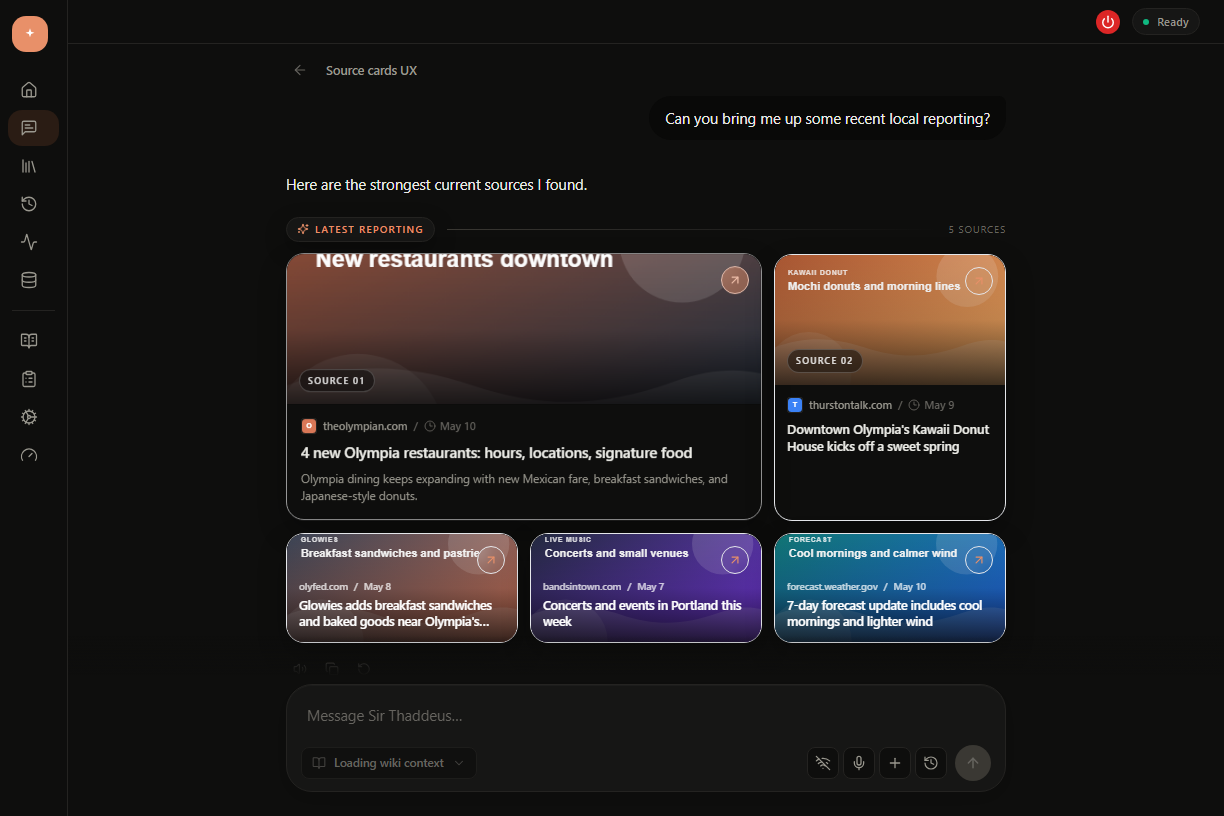
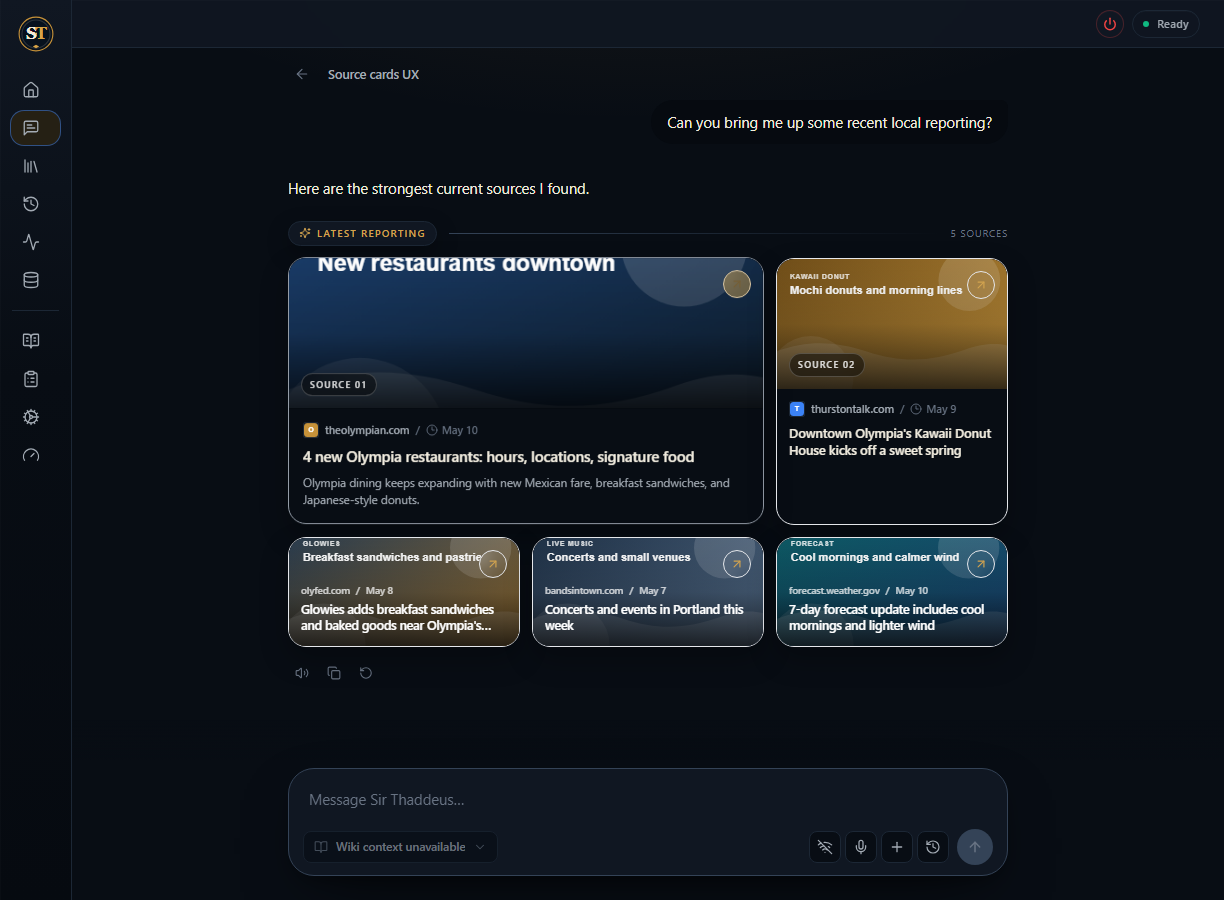
Refresh README visuals for the new brand system

diff --git a/web/tests/e2e/sourcecards.ux.spec.ts b/web/tests/e2e/sourcecards.ux.spec.ts
@@ -6,8 +6,8 @@ const richSources = [
     title: '4 new Olympia restaurants: hours, locations, signature food',
     domain: 'theolympian.com',
     excerpt: 'Olympia dining keeps expanding with new Mexican fare, breakfast sandwiches, and Japanese-style donuts.',
-    favicon: iconDataUrl('O', '#d97757'),
-    thumbnail: thumbDataUrl('OLYMPIA FOOD', 'New restaurants downtown', '#924c34', '#22384d'),
+    favicon: iconDataUrl('O', '#c79239'),
+    thumbnail: thumbDataUrl('OLYMPIA FOOD', 'New restaurants downtown', '#1b3f6e', '#102030'),
     publishedAt: '2026-05-10T08:00:00Z',
   },
   {
@@ -16,7 +16,7 @@ const richSources = [
     domain: 'thurstontalk.com',
     excerpt: 'A local donut shop is drawing attention for soft mochi donuts and weekend breakfast traffic.',
     favicon: iconDataUrl('T', '#3b82f6'),
-    thumbnail: thumbDataUrl('KAWAII DONUT', 'Mochi donuts and morning lines', '#a85532', '#f7b267'),
+    thumbnail: thumbDataUrl('KAWAII DONUT', 'Mochi donuts and morning lines', '#6f4d18', '#c9973e'),
     publishedAt: '2026-05-09T15:30:00Z',
   },
   {
@@ -25,7 +25,7 @@ const richSources = [
     domain: 'olyfed.com',
     excerpt: 'The bakery cafe is pairing breakfast sandwiches with pastries in a small downtown space.',
     favicon: iconDataUrl('G', '#10b981'),
-    thumbnail: thumbDataUrl('GLOWIES', 'Breakfast sandwiches and pastries', '#334155', '#d97757'),
+    thumbnail: thumbDataUrl('GLOWIES', 'Breakfast sandwiches and pastries', '#24394f', '#9a702f'),
     publishedAt: '2026-05-08T18:45:00Z',
   },
   {
@@ -33,8 +33,8 @@ const richSources = [
     title: 'Concerts and events in Portland this week',
     domain: 'bandsintown.com',
     excerpt: 'Venue calendars point to a busy week for small stages, touring acts, and last-minute ticket listings.',
-    favicon: iconDataUrl('B', '#8b5cf6'),
-    thumbnail: thumbDataUrl('LIVE MUSIC', 'Concerts and small venues', '#1f2937', '#7c3aed'),
+    favicon: iconDataUrl('B', '#58718d'),
+    thumbnail: thumbDataUrl('LIVE MUSIC', 'Concerts and small venues', '#1c2e43', '#58718d'),
     publishedAt: '2026-05-07T19:00:00Z',
   },
   {
@@ -43,7 +43,7 @@ const richSources = [
     domain: 'forecast.weather.gov',
     excerpt: 'The latest forecast emphasizes mild temperatures, patchy clouds, and a calmer weekend pattern.',
     favicon: iconDataUrl('W', '#06b6d4'),
-    thumbnail: thumbDataUrl('FORECAST', 'Cool mornings and calmer wind', '#0f766e', '#2563eb'),
+    thumbnail: thumbDataUrl('FORECAST', 'Cool mornings and calmer wind', '#0c5962', '#1b3f6e'),
     publishedAt: '2026-05-10T12:00:00Z',
   },
 ];
@@ -61,7 +61,7 @@ test.describe('source cards UX', () => {
     await forceDarkTheme(context);
     await installRoutes(page, baseUrl!);
 
-    const desktopScore = await inspectAtViewport(page, baseUrl!, 1224, 816, 'desktop');
+    const desktopScore = await inspectAtViewport(page, baseUrl!, 1224, 900, 'desktop');
     expect(desktopScore, JSON.stringify(desktopScore.checks)).toMatchObject({ total: 10 });
 
     const mobileScore = await inspectAtViewport(page, baseUrl!, 390, 780, 'mobile');
@@ -87,6 +87,17 @@ async function inspectAtViewport(
   await expect(cards).toHaveCount(richSources.length);
   await expect(page.getByTestId('source-card-thumbnail')).toHaveCount(richSources.length);
   await expect(page.getByTestId('chat-latest-response-actions')).toBeVisible();
+  const sourceImages = page.getByTestId('chat-source-cards').locator('img');
+  await expect.poll(() => sourceImages.count()).toBeGreaterThanOrEqual(richSources.length);
+  await expect.poll(
+    () => sourceImages.evaluateAll((images) =>
+      images
+        .filter((image) => {
+          const rect = image.getBoundingClientRect();
+          return rect.bottom > 0 && rect.top < window.innerHeight;
+        })
+        .every((image) => image.complete && image.naturalWidth > 0)),
+  ).toBe(true);
 
   const checks = await page.evaluate(() => {
     const sourceSection = document.querySelector<HTMLElement>('[data-testid="chat-source-cards"]');
@@ -103,7 +114,12 @@ async function inspectAtViewport(
         rect.left >= -1 &&
         rect.right <= viewportWidth + 1;
     });
-    const imagesReady = images.every((image) => image.complete && image.naturalWidth > 0);
+    const imagesReady = images
+      .filter((image) => {
+        const rect = image.getBoundingClientRect();
+        return rect.bottom > 0 && rect.top < window.innerHeight;
+      })
+      .every((image) => image.complete && image.naturalWidth > 0);
     const noHorizontalPageOverflow =
       document.documentElement.scrollWidth <= document.documentElement.clientWidth + 1;
     const noCardOverlap = sourceCards.every((card, index) => {

diff --git a/README.md b/README.md
@@ -26,7 +26,7 @@
     <a href="LICENSE"><img src="https://img.shields.io/github/license/raydeStar/sir-thaddeus?color=C9973E" alt="Apache 2.0 license" /></a>
     <img src="https://img.shields.io/badge/platform-Windows-0078D6" alt="Windows" />
     <img src="https://img.shields.io/badge/telemetry-none-111111" alt="No telemetry" />
-    <img src="https://img.shields.io/badge/tools-MCP-D97757" alt="MCP tools" />
+    <img src="https://img.shields.io/badge/tools-MCP-C79239" alt="MCP tools" />
   </p>
 </div>
 
